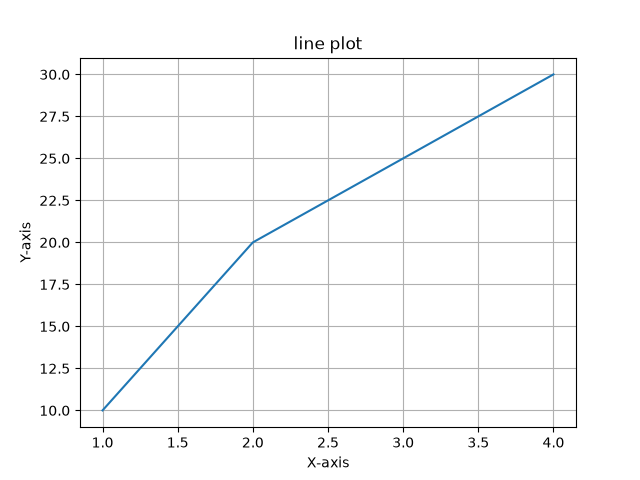
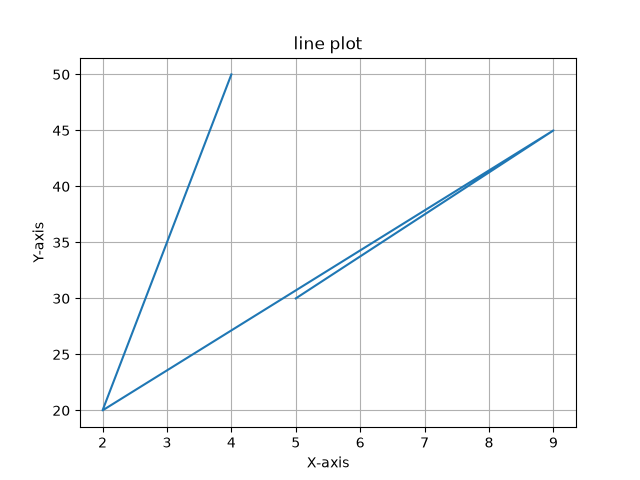
ne changes

diff --git a/PROGRAM5B.py b/PROGRAM5B.py
@@ -3,4 +3,5 @@ import matplotlib.pyplot as plt
 df=pd.DataFrame({'category':['A','B','C'], 'values':[30, 50, 40]})
 df.plot(kind='bar', x='category', y='values',)
 plt.title("Bar Plot")
+plt.savefig("bar_plot.png")
 plt.show()

diff --git a/PROGRAM5C.py b/PROGRAM5C.py
@@ -4,4 +4,5 @@ import numpy as np
 data=np.random.randn(2000)
 sns.histplot(data, kde=True)
 plt.title("Histogram and density")
+plt.savefig("histogram_density.png")
 plt.show()

diff --git a/PROGRAM5E.py b/PROGRAM5E.py
@@ -3,4 +3,5 @@ import numpy as np
 import matplotlib.pyplot as plt
 sns.boxplot(data=np.random.randn(200,6))
 plt.title("Box Plot")
+plt.savefig("box_plot.png")
 plt.show()

diff --git a/PROGRAM5D.py b/PROGRAM5D.py
@@ -6,4 +6,5 @@ plt.scatter(X,Y)
 plt.title("Scatter Plot")
 plt.xlabel("X")
 plt.ylabel("Y")
+plt.savefig("scatter_plot.png")
 plt.show()
